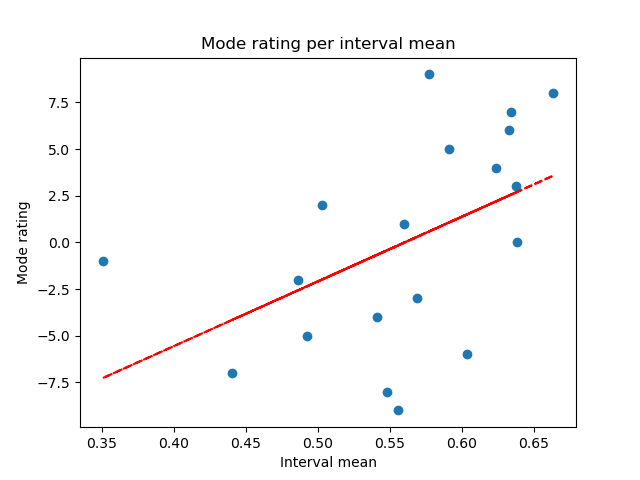
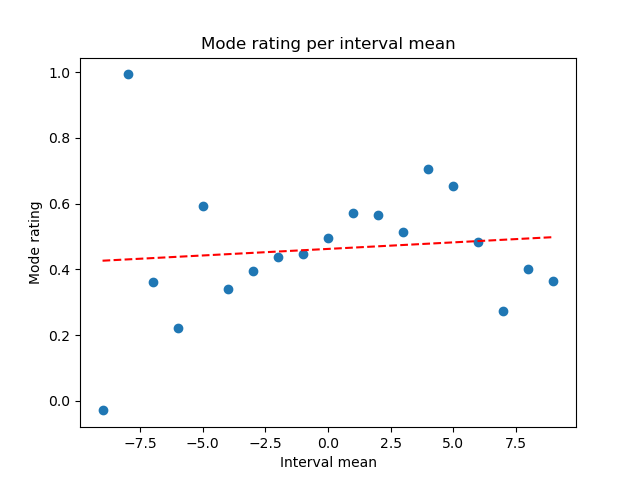
master: Added some plots and round floats.

diff --git a/practica1_SIO/prova.py b/practica1_SIO/prova.py
@@ -29,26 +29,24 @@ try:
     restaurant_visits = all_ratings.drop(['rating'], axis=1)
     restaurant_visits = restaurant_visits.groupby('restaurantID', as_index=False).count().rename(columns={'userID':'visit'})
     print(restaurant_visits)
-
     user_visits = all_ratings.drop(['rating'], axis=1)
     user_visits = user_visits.groupby('userID', as_index=False).count().rename(columns={'restaurantID':'visit'})
     print(user_visits)
 
-    '''
     pivot_ratings = all_ratings.pivot_table(index=['userID'], columns=['restaurantID'], values='rating')
     print(pivot_ratings)
 
     user_sd = pivot_ratings.std(axis=1, skipna=True)
     print(user_sd)
-    
+
     interval_df = all_ratings.drop(['restaurantID'], axis=1)
-    interval_df['rating'] = interval_df['rating'].round(0)
+    interval_df['rating'] = interval_df['rating'].apply(np.int64)
     interval_df['rating'].replace({10:9}, inplace=True)
     interval_df = interval_df.groupby('rating', as_index=False).count().rename(columns={'userID':'count'})
     print(interval_df)
-    '''
 
-    '''
+
+    ''' Show plot
     count_plot = interval_df['count']
     ax = count_plot.plot(kind='bar')
     ax.set_xticklabels(np.arange(-9, 10))
@@ -58,9 +56,8 @@ try:
     plt.show()
     '''
 
-    '''
     delete_decimals = all_ratings
-    delete_decimals['rating'] = all_ratings['rating'].round(0)
+    delete_decimals['rating'] = all_ratings['rating'].apply(np.int64)
     print(all_ratings)
     print(delete_decimals)
     delete_decimals = delete_decimals.pivot_table(index=['userID'], columns=['restaurantID'], values='rating')
@@ -68,15 +65,14 @@ try:
     print(user_mode)
     restaurant_mode = delete_decimals.mode()
     print(restaurant_mode)
-    '''
-    '''
     restaurant_ratings_sorted = pd.DataFrame(columns=['rating', 'visit'])
     restaurant_ratings_sorted['rating'] = restaurant_ratings['rating']
     restaurant_ratings_sorted['visit'] = restaurant_visits['visit']
     print(restaurant_ratings_sorted)
     restaurant_ratings_sorted = restaurant_ratings_sorted.sort_values(by=['rating'])
     print(restaurant_ratings_sorted)
-   
+
+    '''Show plot.
     plt.scatter(restaurant_ratings_sorted['rating'], restaurant_ratings_sorted['visit'])
     plt.title('Number of visit per restaurant rating mean')
     plt.ylabel('Number of visits')
@@ -84,24 +80,24 @@ try:
     plt.show()
     '''
     '''
-    restaurant_ratings_sorted['rating'] = restaurant_ratings_sorted['rating'].round(0)
+    restaurant_ratings_sorted['rating'] = restaurant_ratings_sorted['rating'].apply(np.int64)
     restaurant_ratings_sorted = restaurant_ratings_sorted.groupby(['rating']).mean().reset_index()
     print(restaurant_ratings_sorted)
-
+    '''
+    '''
     plt.bar(restaurant_ratings_sorted['rating'], restaurant_ratings_sorted['visit'])
     plt.title('Number of visit per interval restaurant rating mean')
     plt.ylabel('Number of visits')
     plt.xlabel('Restaurant rating mean')
     plt.show()
     '''
-
     '''
     mode_group_user = pd.DataFrame(columns=['mode', 'mean'])
     mode_group_user['mode'] = user_mode
     mode_group_user['mean'] = user_ratings['rating']
     mode_group_user = mode_group_user.groupby(['mode']).mean().reset_index()
     print(mode_group_user)
-    
+
     plt.scatter(mode_group_user['mode'], mode_group_user['mean'])
     plt.title('Mean rating per interval mode')
     plt.ylabel('Mean rating')
@@ -111,14 +107,14 @@ try:
     plt.plot(mode_group_user['mode'], y(mode_group_user['mode']), "r--")
     plt.show()
     '''
-    '''
+
     mean_group_user = pd.DataFrame(columns=['mode', 'mean'])
     mean_group_user['mode'] = user_mode
-    mean_group_user['mean'] = user_ratings['rating']
-    mean_group_user['mean'] = user_ratings['rating'].round(0)
+    mean_group_user['mean'] = user_ratings['rating'].apply(np.int64)
     mean_group_user = mean_group_user.groupby(['mean']).mean().reset_index()
     print(mean_group_user)
 
+    '''
     plt.scatter(mean_group_user['mean'], mean_group_user['mode'])
     plt.title('Mode rating per interval mean')
     plt.ylabel('Mode rating')
@@ -128,115 +124,52 @@ try:
     plt.plot(mean_group_user['mean'], y(mean_group_user['mean']), "r--")
     plt.show()
     '''
-    '''
+
     mean_counts_user = pd.DataFrame(columns=['count'])
-    mean_counts_user['count'] = user_ratings['rating'].round(0)
+    mean_counts_user['count'] = user_ratings['rating'].apply(np.int64)
     mean_counts_user = mean_counts_user['count'].value_counts().reset_index()
-    mean_counts_user = mean_counts_user.rename(columns={'index':'mean'})
+    mean_counts_user = mean_counts_user.rename(columns={'index': 'mean'})
     mean_counts_user = mean_counts_user.sort_values(by=['mean'])
     print(mean_counts_user)
-    
+
+    '''
     plt.scatter(mean_counts_user['mean'], mean_counts_user['count'])
     plt.title('Number of users interval mean occurrences')
     plt.ylabel('Number of occurrences')
     plt.xlabel('Interval of mean')
     plt.show()
     '''
-    '''
+
     mean_counts_restaurant = pd.DataFrame(columns=['count'])
-    mean_counts_restaurant['count'] = restaurant_ratings['rating'].round(0)
+    mean_counts_restaurant['count'] = restaurant_ratings['rating'].apply(np.int64)
     mean_counts_restaurant = mean_counts_restaurant['count'].value_counts().reset_index()
     mean_counts_restaurant = mean_counts_restaurant.rename(columns={'index': 'mean'})
     mean_counts_restaurant = mean_counts_restaurant.sort_values(by=['mean'])
     print(mean_counts_restaurant)
 
-    
+    '''
     plt.scatter(mean_counts_restaurant['mean'], mean_counts_restaurant['count'])
     plt.title('Number of restaurants interval mean occurrences')
     plt.ylabel('Number of occurrences')
     plt.xlabel('Interval of mean')
     plt.show()
     '''
-    '''
+
     prob_df = pd.DataFrame(columns=['count'])
-    prob_df['count'] = all_ratings['rating']
     print(all_ratings)
+    prob_df['count'] = all_ratings['rating']
     print(prob_df)
     prob_df = prob_df['count'].value_counts().reset_index()
     prob_df['probability'] = prob_df['count'] / len(user_ratings)
     prob_df = prob_df.rename(columns={'index': 'rating'})
     prob_df = prob_df.sort_values(by=['rating'])
     print(prob_df)
-    
     plt.scatter(prob_df['rating'], prob_df['probability'])
     plt.title('Probability of each rating')
     plt.ylabel('Probability')
     plt.xlabel('Rating')
     plt.show()
-    '''
-    
-    '''
-    std_mean_user = pd.DataFrame(user_sd, columns=['std']).reset_index(drop=True)
-    std_mean_user['mean'] = user_ratings['rating']
-    print(std_mean_user)
 
-    plt.scatter(std_mean_user['mean'], std_mean_user['std'])
-    plt.title('Population deviation per rating mean')
-    plt.ylabel('Population deviation')
-    plt.xlabel('Rating mean')
-    plt.show()
-    '''
-    
-    '''
-    std_mode_user = pd.DataFrame(user_sd, columns=['std']).reset_index(drop=True)
-    std_mode_user['mode'] = user_mode.reset_index(drop=True)
-    print(std_mode_user)
-
-    plt.scatter(std_mode_user['mode'], std_mode_user['std'])
-    plt.title('Population deviation per rating mode')
-    plt.ylabel('Population deviation')
-    plt.xlabel('Rating mode')
-    plt.show()
-    '''
-
-    '''
-    user_boolean = user_ratings
-    user_boolean['positive'] = user_boolean['rating'] >= 0
-    user_boolean = user_boolean.groupby('positive', as_index=False).count()
-    print(user_boolean)
-
-    
-    plt.bar(user_boolean['positive'], user_boolean['userID'])
-    plt.title('Percentage of positive and negative users')
-    plt.ylabel('Number of users')
-    plt.xlabel('User positivism')
-    plt.xticks(user_boolean['positive'], user_boolean['positive'])
-    for a, b in zip(user_boolean['positive'], user_boolean['userID']):
-        plt.text(a, b, str(round(b / len(user_ratings) * 100, 1)), ha='center')
-    plt.show()
-    '''
-
-    '''
-    restaurant_boolean = restaurant_ratings
-    restaurant_boolean['positive'] = restaurant_boolean['rating'] >= 0
-    restaurant_boolean = restaurant_boolean.groupby('positive', as_index=False).count()
-    print(restaurant_boolean)
-
-    plt.bar(restaurant_boolean['positive'], restaurant_boolean['restaurantID'])
-    plt.title('Percentage of positive and negative restaurants')
-    plt.ylabel('Number of restaurants')
-    plt.xlabel('Restaurant positivism')
-    plt.xticks(restaurant_boolean['positive'], restaurant_boolean['positive'])
-    for a, b in zip(restaurant_boolean['positive'], restaurant_boolean['restaurantID']):
-        plt.text(a, b, str(round(b / len(restaurant_ratings) * 100, 1)), ha='center')
-    plt.show()
-    '''
-
-    different_users_same_rating = pd.DataFrame(all_ratings.drop(['restaurantID'], axis=1), columns=['userID', 'rating'])
-    different_users_same_rating['rating'] = different_users_same_rating['rating'].round(1)
-    different_users_same_rating = different_users_same_rating.groupby(['rating', 'userID']).count().reset_index()
-    different_users_same_rating = different_users_same_rating.groupby(['rating']).count().reset_index()
-    print(different_users_same_rating)
 
 except Exception as e:
     print(e)
